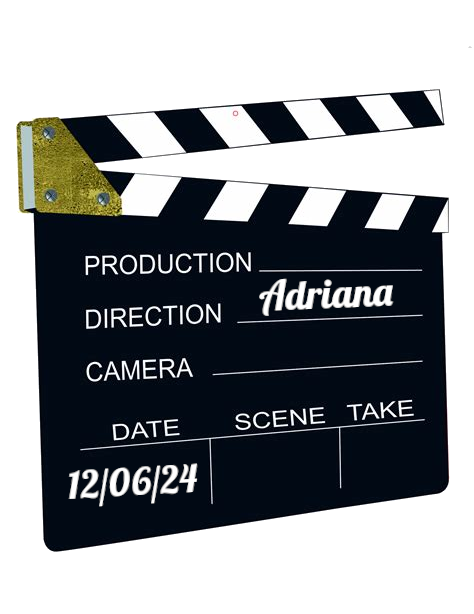
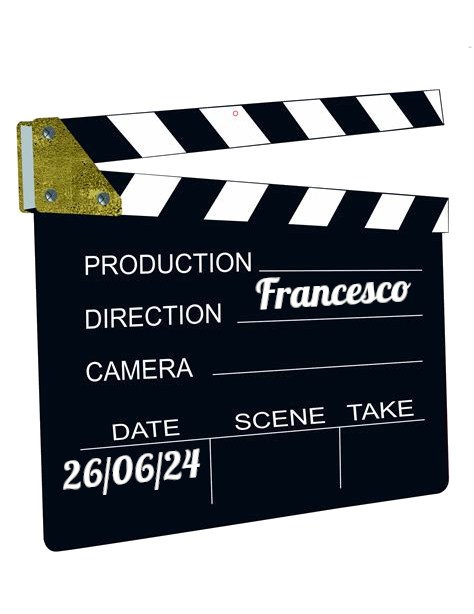
Il tè nel deserto

Changed region(s): [[0.1181, 0.7117, 0.443, 0.8355], [0.5316, 0.4332, 0.8861, 0.5261]]

diff --git a/index.html b/index.html
@@ -38,17 +38,12 @@
 
 <br /><br /><hr width="90%"><hr width="90%"><br /><br />
 
-<!--
 <h1>Mercoled&igrave; 26 giugno 2024</h1>
-
 <h2>Alle 20:30 in Via Nizza, 72</h2>
-
 <img src="img/ciak.png" class="locandina"/>
-
 <h2>Selezionatore: <i>Francesco</i></h2>
 
 <br /><br /><hr width="90%"><hr width="90%"><br /><br />
--->
 
 <h1>Mercoled&igrave; 19 giugno 2024</h1>
 
@@ -59,7 +54,7 @@
 
 <h2><i>In trasferta alla <a href="https://www.casadelcinema.it/" target="_blank">Casa del Cinema</a></i></h2>
 
-<br /><br /><hr width="90%"><hr width="90%"><br /><br />
+<br /><br /><hr width="90%"><br /><br />
 
 <h1>Mercoled&igrave; 12 giugno 2024</h1>
 

diff --git a/movieslist.html b/movieslist.html
@@ -29,6 +29,17 @@ Rassegnamoci, Cineforum a Programma Variabile - Elenco Film
   </thead>
   <tbody>
     <tr>
+      <td>19-Giu-2024</td>
+      <td>Il tè nel deserto</td>
+      <td>Jolly</td>
+      <td>-</td>
+      <td>1990</td>
+      <td>Bernardo Bertolucci</td>
+      <td>132</td>
+      <td>IT; GB</td>
+      <td><a href="https://www.imdb.com/title/tt0100594" target="_blank">https://www.imdb.com/title/tt0100594</a></td>
+    </tr>
+    <tr>
       <td>12-Giu-2024</td>
       <td>Living</td>
       <td>Adriana</td>
